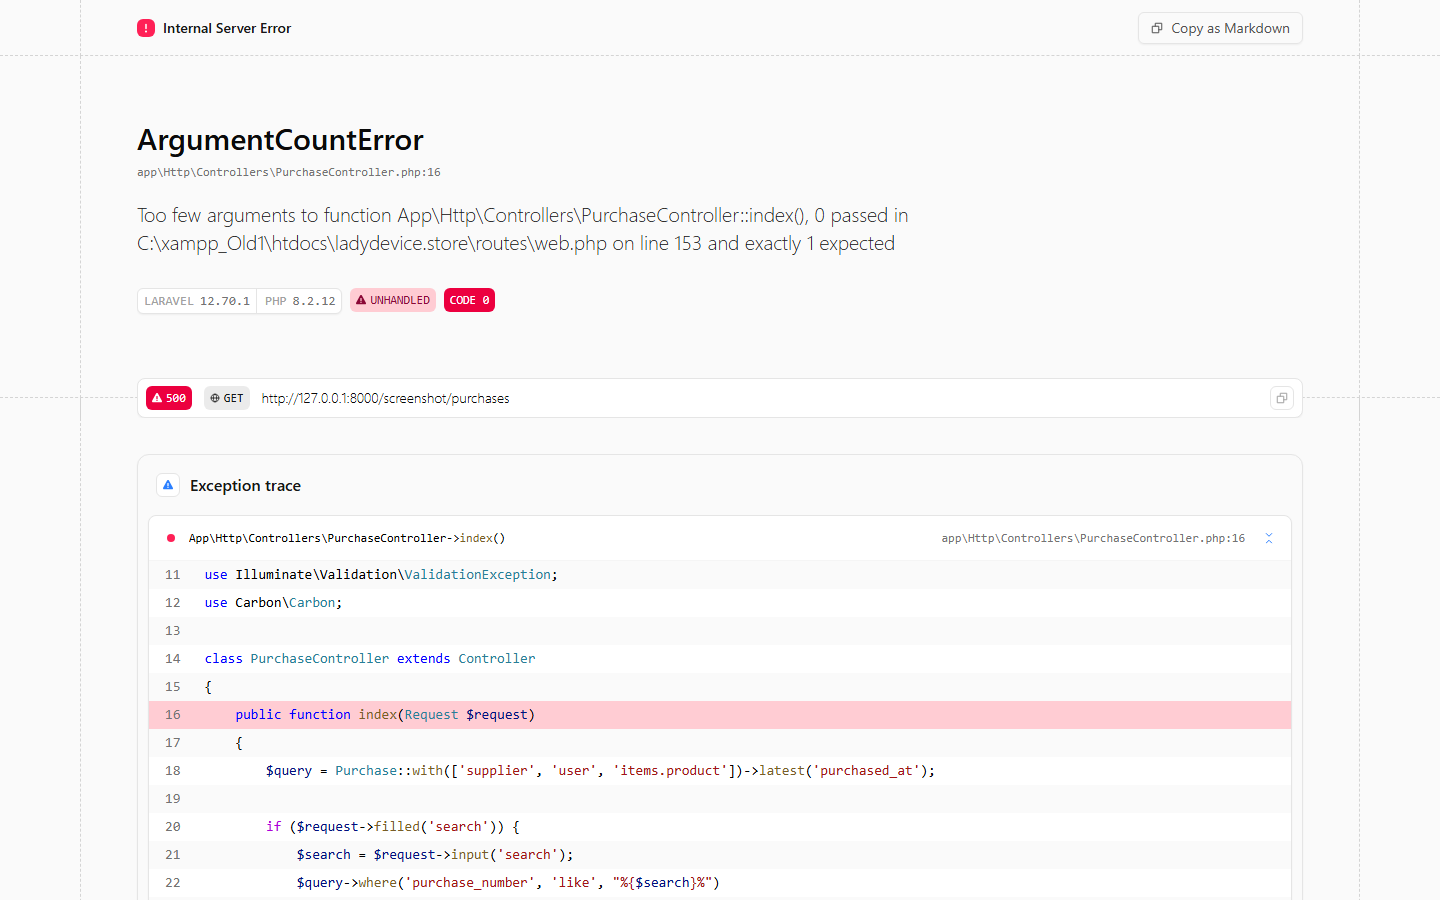
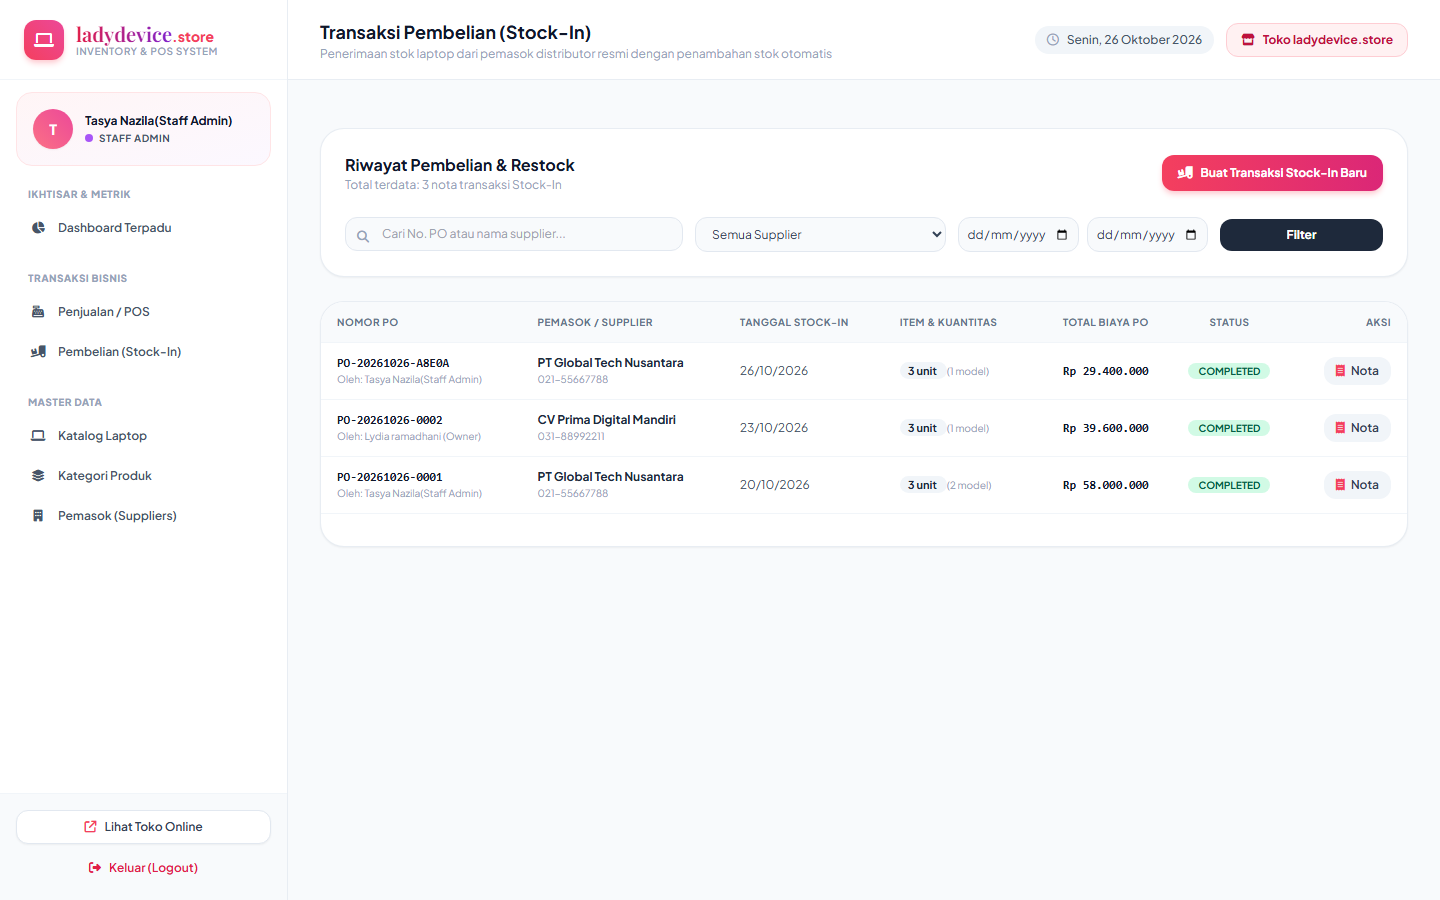
fix: perbaiki tangkapan layar riwayat pembelian stok masuk

diff --git a/routes/web.php b/routes/web.php
@@ -150,5 +150,5 @@ Route::get('/screenshot/pos', function () {
 Route::get('/screenshot/purchases', function () {
     $staff = \App\Models\User::where('role', 'staff')->first();
     \Illuminate\Support\Facades\Auth::login($staff);
-    return app(\App\Http\Controllers\PurchaseController::class)->index();
+    return app(\App\Http\Controllers\PurchaseController::class)->index(request());
 });

diff --git a/app/Http/Controllers/PurchaseController.php b/app/Http/Controllers/PurchaseController.php
@@ -13,8 +13,9 @@ use Carbon\Carbon;
 
 class PurchaseController extends Controller
 {
-    public function index(Request $request)
+    public function index(?Request $request = null)
     {
+        $request = $request ?? request();
         $query = Purchase::with(['supplier', 'user', 'items.product'])->latest('purchased_at');
 
         if ($request->filled('search')) {
